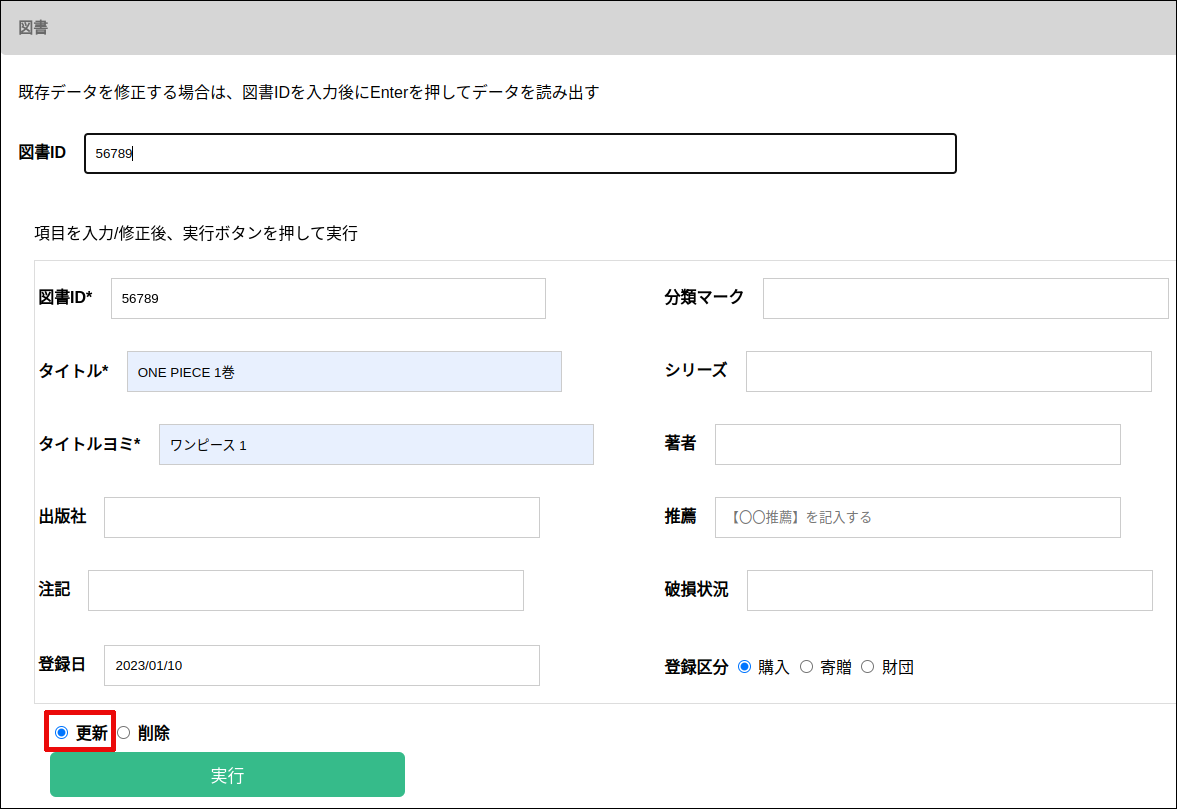
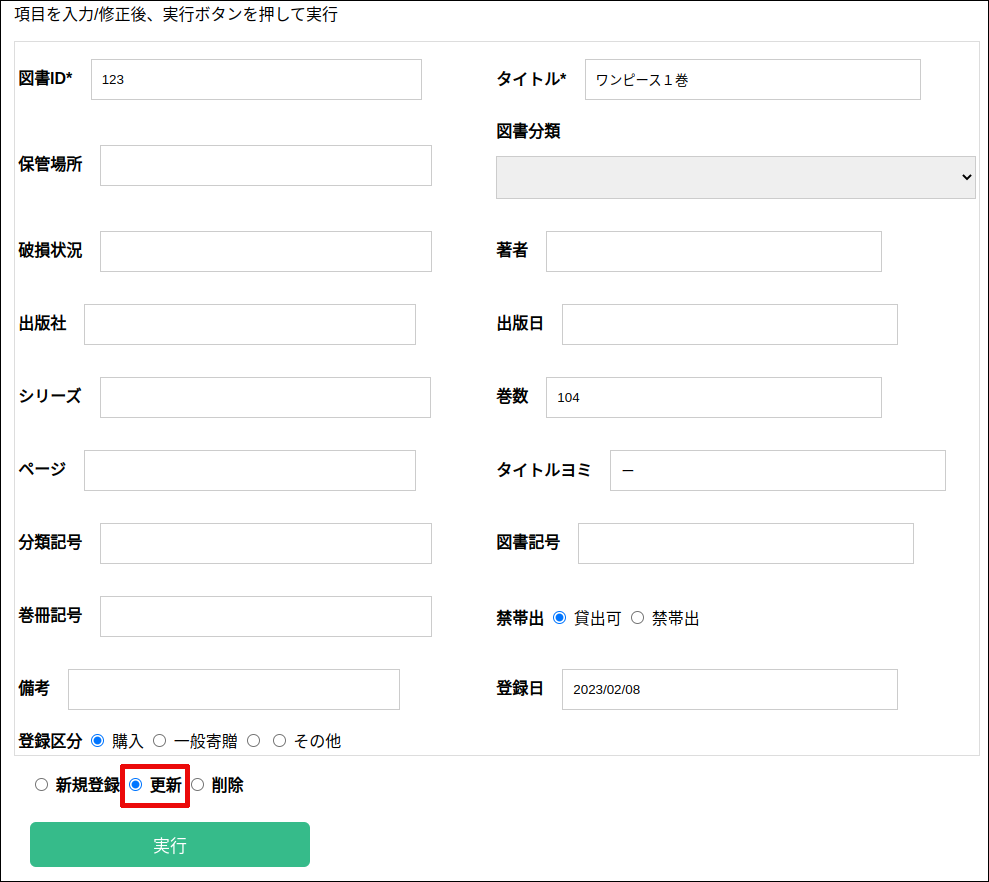
Split the edit operation into registration and edit

diff --git a/src/html/edit.html b/src/html/edit.html
@@ -86,6 +86,8 @@
           return;
         }
 
+        document.getElementById("user_update").checked = true;
+
         var user = data["user_list"][0];
         document.getElementById("user_id").value = user.id;
         document.getElementById("user_name").value = user.name;
@@ -110,6 +112,8 @@
         if (handleError(data)) {
           return;
         }
+
+        document.getElementById("book_update").checked = true;
 
         var book = data["book_list"][0];
         document.getElementById("book_id").value = book.id;
@@ -188,7 +192,15 @@
           return;
         }
 
-        alert("データを更新しました");
+        const operation = data["operation"];
+        if (operation == "insert") {
+          alert("データを登録しました");
+        } else if (operation == "update") {
+          alert("データを更新しました");
+        } else if (operation == "delete") {
+          alert("データを削除しました");
+        }
+
         setCurrentDate();
       }
 
@@ -203,7 +215,15 @@
           return;
         }
 
-        alert("データを更新しました");
+        const operation = data["operation"];
+        if (operation == "insert") {
+          alert("データを登録しました");
+        } else if (operation == "update") {
+          alert("データを更新しました");
+        } else if (operation == "delete") {
+          alert("データを削除しました");
+        }
+        
         setCurrentDate();
       }
 
@@ -428,9 +448,16 @@
             <input
               type="radio"
               name="operation"
+              id="user_insert"
+              value="insert"
+              checked
+            />
+            <label for="user_insert"><b>新規登録</b></label>
+            <input
+              type="radio"
+              name="operation"
               id="user_update"
               value="update"
-              checked
             />
             <label for="user_update"><b>更新</b></label>
             <input
@@ -725,9 +752,16 @@
             <input
               type="radio"
               name="operation"
+              id="book_insert"
+              value="insert"
+              checked
+            />
+            <label for="book_insert"><b>新規登録</b></label>
+            <input
+              type="radio"
+              name="operation"
               id="book_update"
               value="update"
-              checked
             />
             <label for="book_update"><b>更新</b></label>
             <input

diff --git a/src/views/edit/edit.rs b/src/views/edit/edit.rs
@@ -1,5 +1,5 @@
 use crate::error::BibErrorResponse;
-use crate::item::{atoi, search_items, SystemSetting};
+use crate::item::{atoi, insert_item, search_items, SystemSetting};
 use crate::item::{delete_item, search_item, update_item};
 use crate::item::{Book, User};
 use crate::views::cache::Cache;
@@ -54,10 +54,14 @@ pub async fn user(
     drop(setting_map);
 
     // Read the User from DB first
+    let operation: &str = &form.operation;
     let mut user = User::default();
     user.id = atoi(&form.user_id).map_err(|e| BibErrorResponse::InvalidArgument(e.to_string()))?;
     user = match search_item(&db, &user).await {
         Ok(mut user) => {
+            if operation == "insert" {
+                return Err(BibErrorResponse::ItemAlreadyExists(user.id));
+            }
             user.name = form.user_name.clone();
             user.kana = form.user_kana.clone();
             user.category = form.user_category.clone();
@@ -91,8 +95,12 @@ pub async fn user(
         }
     };
 
-    let operation: &str = &form.operation;
     match operation {
+        "insert" => {
+            insert_item(&db, &user)
+                .await
+                .map_err(|e| BibErrorResponse::SystemError(e.to_string()))?;
+        }
         "update" => {
             update_item(&db, &user)
                 .await
@@ -111,7 +119,8 @@ pub async fn user(
         }
     }
 
-    let reply = Reply::default();
+    let mut reply = Reply::default();
+    reply.operation = operation.to_owned();
     Ok(HttpResponse::Ok().json(reply))
 }
 
@@ -160,10 +169,14 @@ pub async fn book(
     drop(setting_map);
 
     // Read the Book from DB first
+    let operation: &str = &form.operation;
     let mut book = Book::default();
     book.id = atoi(&form.book_id).map_err(|e| BibErrorResponse::InvalidArgument(e.to_string()))?;
     book = match search_item(&db, &book).await {
         Ok(mut book) => {
+            if operation == "insert" {
+                return Err(BibErrorResponse::ItemAlreadyExists(book.id));
+            }
             book.title = form.book_title.clone();
             book.location = form.book_location.clone();
             book.category = form.book_category.clone();
@@ -221,8 +234,12 @@ pub async fn book(
         }
     };
 
-    let operation: &str = &form.operation;
     match operation {
+        "insert" => {
+            insert_item(&db, &book)
+                .await
+                .map_err(|e| BibErrorResponse::SystemError(e.to_string()))?;
+        }
         "update" => {
             update_item(&db, &book)
                 .await
@@ -248,6 +265,7 @@ pub async fn book(
         }
     }
 
-    let reply = Reply::default();
+    let mut reply = Reply::default();
+    reply.operation = operation.to_owned();
     Ok(HttpResponse::Ok().json(reply))
 }

diff --git a/src/error.rs b/src/error.rs
@@ -32,6 +32,7 @@ pub enum BibErrorResponse {
     UserExists,
     NotAllowedToBorrow,
     InputLengthTooLong(),
+    ItemAlreadyExists(u32),
 }
 
 impl Display for BibErrorResponse {
@@ -187,6 +188,13 @@ impl actix_web::error::ResponseError for BibErrorResponse {
                     reason: String::new(),
                 })
             }
+            BibErrorResponse::ItemAlreadyExists(id) => HttpResponse::build(self.status_code())
+                .json(BibResponseBody {
+                    success: false,
+                    errcode: 118,
+                    message: format!("ID{}は既に登録されています", id),
+                    reason: String::new(),
+                }),
             BibErrorResponse::SystemError(reason) => {
                 HttpResponse::build(self.status_code()).json(BibResponseBody {
                     success: false,

diff --git a/src/views/reply.rs b/src/views/reply.rs
@@ -20,6 +20,7 @@ pub struct Reply {
     pub returned_book_title: String,
     pub returned_book_id: u32,
     pub barcode_size: u32,
+    pub operation: String,
 }
 
 impl Reply {
@@ -41,6 +42,7 @@ impl Reply {
             returned_book_title: String::new(),
             returned_book_id: 0,
             barcode_size: 0,
+            operation: String::new(),
         }
     }
 }

diff --git a/books/docs/user/README.md b/books/docs/user/README.md
@@ -4,13 +4,9 @@
 
 ![user](../img/user.png)
 
-項目を入力後、”更新” がチェックされている状態で、”実行”ボタンを押します。
+項目を入力後、”新規登録” がチェックされている状態で、”実行”ボタンを押します。
 
 ![user_register](../img/user_register.png)
-
-入力した利用者IDが未登録の場合は、新規に利用者が登録されます。
-
-入力した利用者IDが登録済みの場合は、入力内容で更新されます。
 
 
 ### 利用者編集

diff --git a/books/docs/book/README.md b/books/docs/book/README.md
@@ -4,13 +4,9 @@
 
 ![book](../img/book.png)
 
-項目を入力後、”更新” がチェックされている状態で、”実行”ボタンを押します。
+項目を入力後、”新規登録” がチェックされている状態で、”実行”ボタンを押します。
 
 ![book_register](../img/book_register.png)
-
-入力した図書IDが未登録の場合は、新規に図書が登録されます。
-
-入力した図書IDが登録済みの場合は、入力内容で更新されます。
 
 
 ### 図書編集
